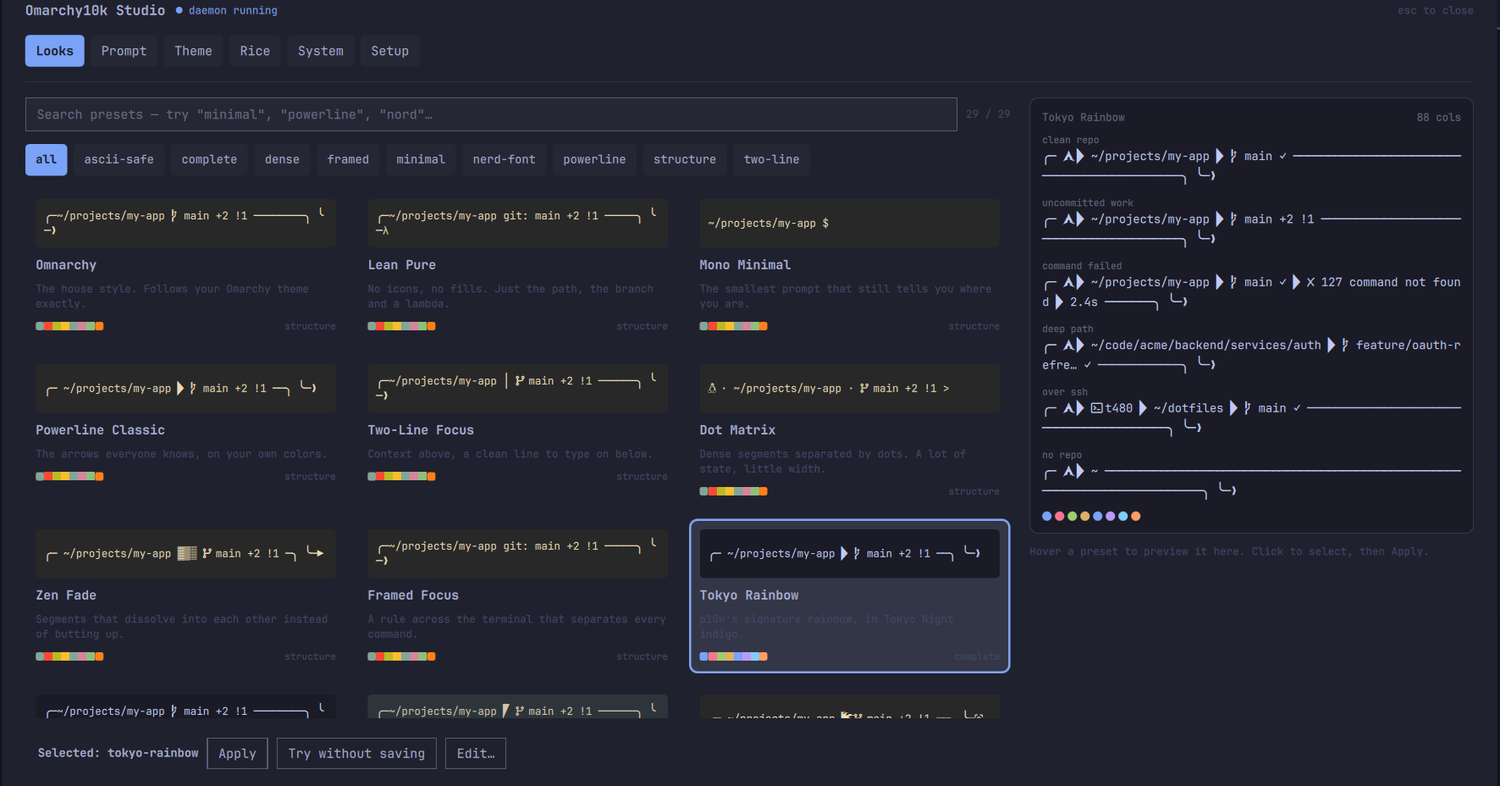
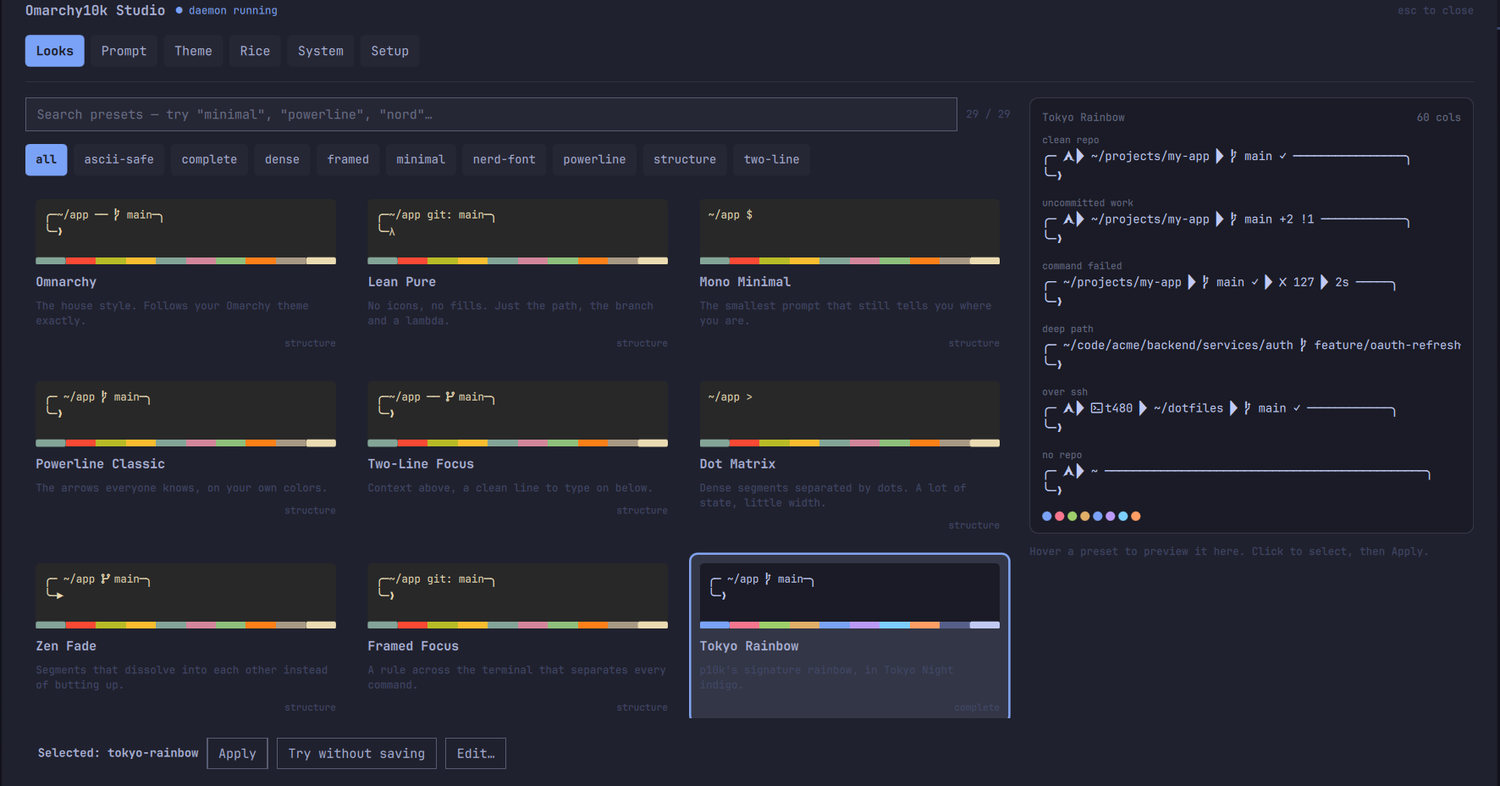
fix(quattro): two-line prompts were being mashed onto one line
The remaining half of the "weird wrapping". Text.StyledText collapses
whitespace exactly like HTML, and ansiToRich passed \n through raw -- so a
two-line prompt rendered as ONE line with the second appended, which is why
every card read "~/app ⑂ main ╰─❯" run together and then clipped. It looked
like wrapping and was not; the width fix could never have addressed it.
Newlines now become <br/>.

That exposed a second cause: prompt.blank_line puts an empty line before
every prompt, which is right in a terminal and wrong in a preview. A card is
two lines tall, so the blank line ate the one the "╰─❯" needed -- and left
dead space above the prompt. Leading blank lines are now stripped in both
preview surfaces.

Cards also demonstrate the palette properly. Eight small dots showed that a
palette EXISTS; a band across the full card, inside the preview frame and on
the palette's own background, shows what it IS -- and seeing it against that
background is the part that tells you whether it will read. Swatches gains a
stretchTo mode for this, and the band carries all ten roles rather than eight.

An emergent property worth keeping: `structure` presets share one band
(whatever palette you are on) while `complete` presets each show their own,
so the band tells you at a glance which presets will change your colours.

README screenshots refreshed -- the previous pair predate both fixes and
showed the wrapped, mashed version.
[…]

diff --git a/quattro/o10k/PresetCard.qml b/quattro/o10k/PresetCard.qml
@@ -85,37 +85,58 @@ Rectangle {
         Rectangle {
             id: previewFrame
             width: parent.width
-            height: Style.space(46)
+            height: Style.space(62)
             radius: Fx.radius(Style.cornerRadius) / 2
             color: card.previewBg
             clip: true
 
             Text {
+                id: promptLine
                 anchors.left: parent.left
                 anchors.right: parent.right
-                anchors.verticalCenter: parent.verticalCenter
-                anchors.leftMargin: Style.space(8)
-                anchors.rightMargin: Style.space(8)
+                anchors.top: parent.top
+                anchors.margins: Style.space(8)
                 visible: card.renderState === "ok" && !!card.render
                 text: (card.render && card.render.left)
-                    ? Model.ansiToRich(card.render.left, card.colors) : ""
+                    ? Model.ansiToRich(
+                        Model.stripLeadingBlankLines(card.render.left), card.colors)
+                    : ""
                 textFormat: Text.StyledText
                 color: card.previewFg
                 font.family: card.terminalFont
                 font.pixelSize: Style.font.caption
-                // One line, never wrapped. The scene is rendered to this
-                // card's own column count, so it fits; wrapping would show a
-                // layout the terminal will never produce.
-                maximumLineCount: 1
+                // Up to TWO lines, because a two-line preset genuinely has
+                // two and squashing them together is what made these cards
+                // look wrong. Never wrapped: the scene is rendered to this
+                // card's own column count, so each line fits.
+                maximumLineCount: 2
                 wrapMode: Text.NoWrap
                 clip: true
                 elide: Text.ElideRight
+                lineHeight: 1.15
+            }
+
+            // The whole palette, across the whole card, on the background it
+            // will actually sit on. Eight small dots showed that a palette
+            // exists; this shows what it is -- and seeing it against its own
+            // background is the part that tells you whether it will read.
+            Swatches {
+                id: paletteBand
+                anchors.left: parent.left
+                anchors.right: parent.right
+                anchors.bottom: parent.bottom
+                visible: card.colors && Object.keys(card.colors).length > 0
+                colors: card.colors ? card.colors : ({})
+                roles: ["accent", "red", "green", "yellow", "blue",
+                        "magenta", "cyan", "orange", "muted", "foreground"]
+                stretchTo: previewFrame.width
+                dotSize: Style.space(7)
             }
 
             Text {
                 anchors.centerIn: parent
                 visible: card.renderState !== "ok" || !card.render
-                text: card.renderState === "error" ? "render failed" : "…"
+                text: card.renderState === "error" ? "render failed" : "\u2026"
                 color: Qt.rgba(card.previewFg.r, card.previewFg.g, card.previewFg.b, 0.4)
                 font.family: Style.font.family
                 font.pixelSize: Style.font.caption
@@ -148,17 +169,7 @@ Rectangle {
         // ── Palette strip + tags ───────────────────────────────────────────
         Item {
             width: parent.width
-            height: Math.max(strip.implicitHeight, tagRow.implicitHeight)
-
-            Swatches {
-                id: strip
-                anchors.left: parent.left
-                anchors.verticalCenter: parent.verticalCenter
-                visible: card.colors && Object.keys(card.colors).length > 0
-                colors: card.colors ? card.colors : ({})
-                dotSize: Style.space(8)
-                joined: true
-            }
+            height: tagRow.implicitHeight
 
             Row {
                 id: tagRow

diff --git a/quattro/o10k/Swatches.qml b/quattro/o10k/Swatches.qml
@@ -29,6 +29,14 @@ Item {
     /// Draw as a continuous bar rather than separate dots. Reads as a single
     /// object at card scale, where eight loose dots read as noise.
     property bool joined: false
+    /// Stretch the strip to exactly this width, dividing it between the
+    /// roles present. Eight small dots show that a palette EXISTS; a band
+    /// across the full card shows what the palette IS.
+    property real stretchTo: 0
+
+    readonly property real cellWidth: swatches.stretchTo > 0
+        ? swatches.stretchTo / Math.max(1, swatches.present.length)
+        : swatches.dotSize
 
     readonly property var present: {
         var out = []
@@ -42,16 +50,18 @@ Item {
         return out
     }
 
-    implicitWidth: swatches.present.length > 0
-        ? (swatches.joined
-            ? swatches.present.length * swatches.dotSize
-            : swatches.present.length * swatches.dotSize
-              + (swatches.present.length - 1) * swatches.gap)
-        : 0
+    implicitWidth: swatches.present.length === 0
+        ? 0
+        : swatches.stretchTo > 0
+            ? swatches.stretchTo
+            : (swatches.joined
+                ? swatches.present.length * swatches.dotSize
+                : swatches.present.length * swatches.dotSize
+                  + (swatches.present.length - 1) * swatches.gap)
     implicitHeight: swatches.dotSize
 
     Row {
-        spacing: swatches.joined ? 0 : swatches.gap
+        spacing: (swatches.joined || swatches.stretchTo > 0) ? 0 : swatches.gap
 
         Repeater {
             model: swatches.present
@@ -61,7 +71,7 @@ Item {
                 required property string modelData
                 required property int index
 
-                width: swatches.dotSize
+                width: swatches.cellWidth
                 height: swatches.dotSize
                 color: dot.modelData
 
@@ -70,7 +80,8 @@ Item {
                 // outer ends.
                 readonly property bool isEnd: dot.index === 0
                     || dot.index === swatches.present.length - 1
-                radius: !swatches.joined
+                readonly property bool banded: swatches.joined || swatches.stretchTo > 0
+                radius: !dot.banded
                     ? width / 2
                     : (dot.isEnd ? height / 4 : 0)
             }

diff --git a/tests/ansi_test.js b/tests/ansi_test.js
@@ -10,7 +10,7 @@ const path = require('path');
 const src = fs.readFileSync(
     path.join(__dirname, '..', 'quattro', 'Model.js'), 'utf8')
     .replace(/^\.pragma library.*$/m, '');
-const M = new Function(src + '\n;return { ansiToRich, stripAnsi };')();
+const M = new Function(src + '\n;return { ansiToRich, stripAnsi, stripLeadingBlankLines };')();
 
 let failures = 0;
 function check(desc, actual, expected) {
@@ -104,6 +104,40 @@ check('null input yields empty output', M.ansiToRich(null, GRUVBOX), '');
     // a way that differs with and without a palette.
     const a = M.ansiToRich(`${ESC}[38;5mx`, GRUVBOX);
     ok('a malformed sequence still returns a string', typeof a === 'string');
+})();
+
+// Two-line prompts. StyledText collapses whitespace like HTML, so a raw \n
+// renders as a SPACE and the second line runs onto the first -- which is what
+// made every card read "~/app git: main ╰─❯" and then clip.
+(() => {
+    const out = M.ansiToRich(`~/app${'\n'}> `);
+    ok('a newline becomes a real line break', out.includes('<br/>'));
+    ok('the raw newline is gone', !/[^>]\n/.test(out));
+})();
+
+(() => {
+    const out = M.ansiToRich(`a${'\r\n'}b`);
+    ok('CRLF is handled too', out.includes('<br/>') && !out.includes('\r'));
+})();
+
+(() => {
+    // A prompt with no newline must not gain a break.
+    ok('single-line prompts are untouched', !M.ansiToRich('~/app > ').includes('<br'));
+})();
+
+// prompt.blank_line puts an empty line before every prompt. Right in a
+// terminal; in a two-line-tall card it consumed the line the "╰─❯" needed.
+(() => {
+    check('a leading blank line is dropped',
+        M.stripLeadingBlankLines('\n~/app\n> '), '~/app\n> ');
+    check('several are dropped',
+        M.stripLeadingBlankLines('\n\n\n~/app'), '~/app');
+    check('interior blank lines are kept',
+        M.stripLeadingBlankLines('~/app\n\n> '), '~/app\n\n> ');
+    check('a prompt with no blank line is untouched',
+        M.stripLeadingBlankLines('~/app'), '~/app');
+    check('empty input is safe', M.stripLeadingBlankLines(''), '');
+    check('null input is safe', M.stripLeadingBlankLines(null), '');
 })();
 
 if (failures) {

diff --git a/quattro/Model.js b/quattro/Model.js
@@ -111,6 +111,26 @@ function escapeHtml(str) {
     return String(str).replace(/&/g, "&amp;").replace(/</g, "&lt;").replace(/>/g, "&gt;");
 }
 
+// Newlines must become <br/>, because Text.StyledText collapses whitespace --
+// newlines included -- exactly like HTML. A two-line prompt (frame presets,
+// prompt.newline) therefore rendered as ONE long line with the second line
+// appended, so every card and preview row showed "~/app ⑂ main ╰─❯" run
+// together and then clipped. It looked like a wrapping bug and was not.
+/// Drop leading blank lines from a render.
+///
+/// `prompt.blank_line` puts an empty line before the prompt so consecutive
+/// commands breathe. That is right in a terminal and wrong in a preview: a
+/// card is two lines tall, and spending one of them on emptiness cut the
+/// "╰─❯" line off every two-line preset.
+function stripLeadingBlankLines(text) {
+    return String(text === undefined || text === null ? "" : text)
+        .replace(/^(?:[ \t]*\r?\n)+/, "");
+}
+
+function newlinesToBreaks(str) {
+    return String(str).replace(/\r?\n/g, "<br/>");
+}
+
 function _hexRgb(r, g, b) {
     function h(v) {
         var s = Math.max(0, Math.min(255, v | 0)).toString(16);
@@ -196,7 +216,8 @@ function ansiToRich(text, palette) {
     var last = 0;
     var m;
     while ((m = re.exec(text)) !== null) {
-        if (m.index > last) out += escapeHtml(text.substring(last, m.index));
+        if (m.index > last)
+            out += newlinesToBreaks(escapeHtml(text.substring(last, m.index)));
         last = re.lastIndex;
         if (m[2] === "m" && m[1].indexOf("?") === -1) {
             var prevFg = fg, prevBg = bg;
@@ -211,7 +232,8 @@ function ansiToRich(text, palette) {
         // Any other escape sequence (OSC, cursor movement, private modes,
         // readline delimiters) is dropped.
     }
-    if (last < text.length) out += escapeHtml(text.substring(last));
+    if (last < text.length)
+        out += newlinesToBreaks(escapeHtml(text.substring(last)));
     closeSpan();
     return out;
 }

diff --git a/quattro/o10k/TerminalPreview.qml b/quattro/o10k/TerminalPreview.qml
@@ -178,7 +178,9 @@ Item {
                     // these re-parse on every hover.
                     Text {
                         width: row.width
-                        text: Model.ansiToRich(row.modelData.left, preview.colors)
+                        text: Model.ansiToRich(
+                            Model.stripLeadingBlankLines(row.modelData.left),
+                            preview.colors)
                         textFormat: Text.StyledText
                         color: preview.fg
                         font.family: preview.terminalFont
